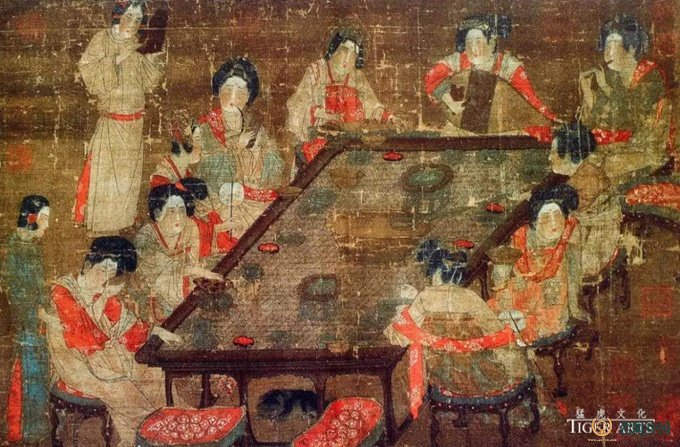
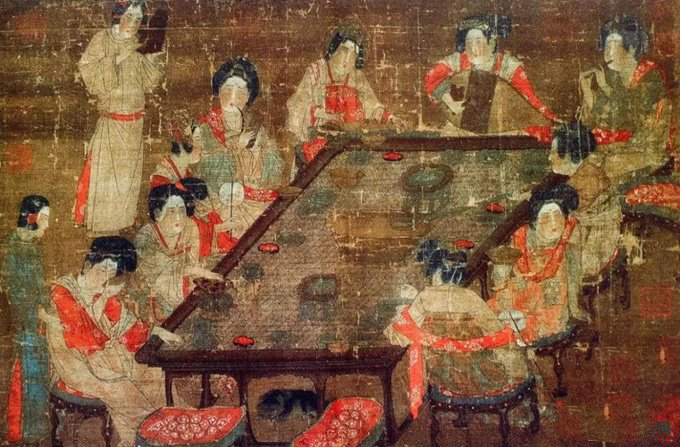
修改图片水印，增加所有页面导航栏页面跳转更新

Changed region(s): [[0.8029, 0.9016, 0.9882, 0.9888]]

diff --git a/Main_menu/main_menu.js b/Main_menu/main_menu.js
@@ -35,11 +35,11 @@ Vue.createApp({
     data() {
         return {
             items:[
-                {a1:"../Solution1/shennong.html",src1:"../Solution1/shennong1.png",h1:"神农不倦尝百草，因缘际会得遇茶",p1:"唐．陆羽《茶经》：“茶之为饮，发乎神农氏。”，在中国的文化发展史上，往往是把一切与农业、与植物相关的事物起源最终都归结于神农氏。"},
-                {a1:"../Solution1/xiashangzhou.html",src1:"../Solution1/xiashangzhou1.png",h1:"夏商始待茶以药，东西两周立茶道",p1:"茶最早开始有文字记载，是在商朝，为茶的原始利用期，在商周的时候中国饮茶主要以咀嚼鲜叶、煮成菜羹、熬煮茶水三种使用方法。西周时期，这种饮食茶叶的习惯得到了继承和发展，茶叶的苦中有甜，苦后回甘，令人回味，广泛受到普通人和王公贵族的喜爱，因此周朝就有了最早的人工栽培的茶园。"},
-                {a1:"../Solution1/qinhanweijin.html",src1:"../Solution1/qinhanweijin1.png",h1:"秦汉茶饼煮可食，魏晋茶入百姓家",p1:"秦人喝茶也没有那些精细的茶道茶礼，也不用那些小杯小盏的精致茶具，大碗，大杯，大口喝茶，这是秦人的粗狂和豪爽。汉代人们对茶叶的药用功能已经有了进一步认识，使茶进入了另一个发展阶段。相应的，茶煮饮的方法也与之前不同：“欲煮茗饮，先炙令色赤，捣末，置瓷器中，以汤浇覆之，用葱姜、橘子芼之”"},
-                {a1:"../Solution1/tangsong.html",src1:"../Solution1/tangsong1.png",h1:"隋唐繁盛风俗成，两宋琐碎浮华生",p1:"隋唐时，茶叶多加工成饼茶。饮用时，加调味品烹煮汤饮。此外，开始使用专门的烹茶器具， 饮茶的方式也发生了显著变化，由之前的粗放式转为细煎慢品式。到了宋代，茶文化继续发展深化，形成了特有的文化品位。此外，宋代的茶饮活动从贡茶开始，又衍生出“绣茶”“斗茶”“分茶”等娱乐方式。"},
-                {a1:"../Solution1/yuanmingqing.html",src1:"../Solution1/yuanmingqing1.png",h1:"元朝曲折茶可饮，明清俗雅两分难",p1:" 元朝建立后，蒙古人将自身的族群风俗和饮食习惯带到中原，茶和茶具进入到了返璞归真、删繁就简的境界。同时“泡茶法”开始被贵族和文人阶层所提倡并流行，成为了当时主流的饮茶方式。明清时，茶已出现蒸青、炒青、烘青等品类，茶的饮用已改成“摄泡祛”。晚明到清初，精细的茶文化再次出现，制茶、烹饮虽未回到宋人的紧琐，但茶风趋向纤弱。"}
+                {a1:"../Solution1/shennong.html",src1:"../Solution1/image/shennong1.png",h1:"神农不倦尝百草，因缘际会得遇茶",p1:"唐．陆羽《茶经》：“茶之为饮，发乎神农氏。”，在中国的文化发展史上，往往是把一切与农业、与植物相关的事物起源最终都归结于神农氏。"},
+                {a1:"../Solution1/xiashangzhou.html",src1:"../Solution1/image/xiashangzhou1.png",h1:"夏商始待茶以药，东西两周立茶道",p1:"茶最早开始有文字记载，是在商朝，为茶的原始利用期，在商周的时候中国饮茶主要以咀嚼鲜叶、煮成菜羹、熬煮茶水三种使用方法。西周时期，这种饮食茶叶的习惯得到了继承和发展，茶叶的苦中有甜，苦后回甘，令人回味，广泛受到普通人和王公贵族的喜爱，因此周朝就有了最早的人工栽培的茶园。"},
+                {a1:"../Solution1/qinhanweijin.html",src1:"../Solution1/image/qinhanweijin1.png",h1:"秦汉茶饼煮可食，魏晋茶入百姓家",p1:"秦人喝茶也没有那些精细的茶道茶礼，也不用那些小杯小盏的精致茶具，大碗，大杯，大口喝茶，这是秦人的粗狂和豪爽。汉代人们对茶叶的药用功能已经有了进一步认识，使茶进入了另一个发展阶段。相应的，茶煮饮的方法也与之前不同：“欲煮茗饮，先炙令色赤，捣末，置瓷器中，以汤浇覆之，用葱姜、橘子芼之”"},
+                {a1:"../Solution1/tangsong.html",src1:"../Solution1/image/tangsong1.png",h1:"隋唐繁盛风俗成，两宋琐碎浮华生",p1:"隋唐时，茶叶多加工成饼茶。饮用时，加调味品烹煮汤饮。此外，开始使用专门的烹茶器具， 饮茶的方式也发生了显著变化，由之前的粗放式转为细煎慢品式。到了宋代，茶文化继续发展深化，形成了特有的文化品位。此外，宋代的茶饮活动从贡茶开始，又衍生出“绣茶”“斗茶”“分茶”等娱乐方式。"},
+                {a1:"../Solution1/yuanmingqing.html",src1:"../Solution1/image/yuanmingqing1.png",h1:"元朝曲折茶可饮，明清俗雅两分难",p1:" 元朝建立后，蒙古人将自身的族群风俗和饮食习惯带到中原，茶和茶具进入到了返璞归真、删繁就简的境界。同时“泡茶法”开始被贵族和文人阶层所提倡并流行，成为了当时主流的饮茶方式。明清时，茶已出现蒸青、炒青、烘青等品类，茶的饮用已改成“摄泡祛”。晚明到清初，精细的茶文化再次出现，制茶、烹饮虽未回到宋人的紧琐，但茶风趋向纤弱。"}
             ]
         }
     }

diff --git a/classify/oolong.html b/classify/oolong.html
@@ -13,27 +13,13 @@
 </head>
 
 <body>
-    <div class="slideshow-container">
-        <div class="mySlides fade">
+    <div class="slideshow-container" id ="slideshow-container_id">
+        <div class="mySlides fade"  v-for="(item,index) in items" >
             <div class="toptitle">
-                <p class="first_p">一帘春欲暮</p>
-                <p class="second_p">茶烟细杨落花风</p>
+                <p class="first_p">{{item.first}}</p>
+                <p class="second_p">{{item.second}}</p>
             </div>
-            <img decoding="async" src="../image/tea1.jpg" style="width:100%" style="height: 100%;">
-        </div>
-        <div class="mySlides fade">
-            <div class="toptitle">
-                <p class="first_p">青箬小壶冰共裹</p>
-                <p class="second_p">寒灯新茗月同煎</p>
-            </div>
-            <img decoding="async" src="../image/tea5.jpg" style="width:100%" style="height: 100%;">
-        </div>
-        <div class="mySlides fade">
-            <div class="toptitle">
-                <p class="first_p">当年曾胜赏</p>
-                <p class="second_p">生香熏袖，活火分茶</p>
-            </div>
-            <img decoding="async" src="../image/tea7.jpg" style="width:100%" style="height: 100%;">
+            <img decoding="async" v-bind:src="src_item[index]" style="width:100%; height: 100%;">
         </div>
     </div>
     <div id="waves">
@@ -53,9 +39,8 @@
     <div class="header">
         <ul>
             <li><a href="../Main_menu/main_menu.html"><strong>首页</strong></a></li>
-            <li><a href="../Solution1/shennong.html"><strong>茶道历史</strong></a></li>
+            <li><a href="../Solution1/history.html"><strong>茶道历史</strong></a></li>
             <li><a href="oolong.html"><strong>茶道分类</strong></a></li>
-            <li><a href="#"><strong>茶道文化</strong></a></li>
             <li><a href="../commodity/commodity_one.html"><strong>购茶途径</strong></a></li>
         </ul>
         <span></span>

diff --git a/commodity/commodity_one.html b/commodity/commodity_one.html
@@ -15,28 +15,14 @@
 
 <body>
 
-<div class="slideshow-container">
-  <div class="mySlides fade">
-    <div class="toptitle">
-      <p class="first_p">一帘春欲暮</p>
-      <p class="second_p">茶烟细杨落花风</p>
+  <div class="slideshow-container" id ="slideshow-container_id">
+    <div class="mySlides fade"  v-for="(item,index) in items" >
+        <div class="toptitle">
+            <p class="first_p">{{item.first}}</p>
+            <p class="second_p">{{item.second}}</p>
+        </div>
+        <img decoding="async" v-bind:src="src_item[index]" style="width:100%; height: 100%;">
     </div>
-    <img decoding="async" src="../image/tea1.jpg" style="width:100%" style="height: 100%;">
-  </div>
-  <div class="mySlides fade">
-    <div class="toptitle">
-      <p class="first_p">青箬小壶冰共裹</p>
-      <p class="second_p">寒灯新茗月同煎</p>
-    </div>
-    <img decoding="async" src="../image/tea5.jpg" style="width:100%" style="height: 100%;">
-  </div>
-  <div class="mySlides fade">
-    <div class="toptitle">
-      <p class="first_p">当年曾胜赏</p>
-      <p class="second_p">生香熏袖，活火分茶</p>
-    </div>
-    <img decoding="async" src="../image/tea7.jpg" style="width:100%" style="height: 100%;">
-  </div>
 </div>
 <div id="waves">
   <svg class="waves" xmlns="http://www.w3.org/2000/svg" xmlns:xlink="http://www.w3.org/1999/xlink"
@@ -55,9 +41,8 @@
 <div class="header">
   <ul>
     <li><a href="../Main_menu/main_menu.html"><strong>首页</strong></a></li>
-    <li><a href="../Solution1/shennong.html"><strong>茶道历史</strong></a></li>
-    <li><a href="oolong.html"><strong>茶道分类</strong></a></li>
-    <li><a href="#"><strong>茶道文化</strong></a></li>
+    <li><a href="../Solution1/history.html"><strong>茶道历史</strong></a></li>
+    <li><a href="../classify/oolong.html"><strong>茶道分类</strong></a></li>
     <li><a href="../commodity/commodity_one.html"><strong>购茶途径</strong></a></li>
   </ul>
   <span></span>

diff --git a/Solution1/history.html b/Solution1/history.html
@@ -54,9 +54,8 @@
 <div class="header">
   <ul>
     <li><a href="../Main_menu/main_menu.html"><strong>首页</strong></a></li>
-    <li><a href="../Solution1/shennong.html"><strong>茶道历史</strong></a></li>
-    <li><a href="oolong.html"><strong>茶道分类</strong></a></li>
-    <li><a href="#"><strong>茶道文化</strong></a></li>
+    <li><a href="../Solution1/history.html"><strong>茶道历史</strong></a></li>
+    <li><a href="../classify/oolong.html"><strong>茶道分类</strong></a></li>
     <li><a href="../commodity/commodity_one.html"><strong>购茶途径</strong></a></li>
   </ul>
   <span></span>

diff --git a/Solution1/goodsdetail.html b/Solution1/goodsdetail.html
@@ -40,9 +40,8 @@
     <div class="header">
         <ul>
             <li><a href="../main_menu.html"><strong>首页</strong></a></li>
-            <li><a href="../Solution1/shennong.html"><strong>茶道历史</strong></a></li>
+            <li><a href="../Solution1/history.html"><strong>茶道历史</strong></a></li>
             <li><a href="../classify/oolong.html"><strong>茶道分类</strong></a></li>
-            <li><a href="#"><strong>茶道文化</strong></a></li>
             <li><a href="../commodity/commodity_one.html"><strong>购茶途径</strong></a></li>
         </ul>
         <span></span>

diff --git a/Main_menu/main_menu.html b/Main_menu/main_menu.html
@@ -28,9 +28,8 @@
     <div class="header">
         <ul>
             <li><a href="main_menu.html"><strong>首页</strong></a></li>
-            <li><a href="../Solution1/shennong.html"><strong>茶道历史</strong></a></li>
+            <li><a href="../Solution1/history.html"><strong>茶道历史</strong></a></li>
             <li><a href="../classify/oolong.html"><strong>茶道分类</strong></a></li>
-            <li><a href="#"><strong>茶道文化</strong></a></li>
             <li><a href="../commodity/commodity_one.html"><strong>购茶途径</strong></a></li>
         </ul>
         <span></span>
